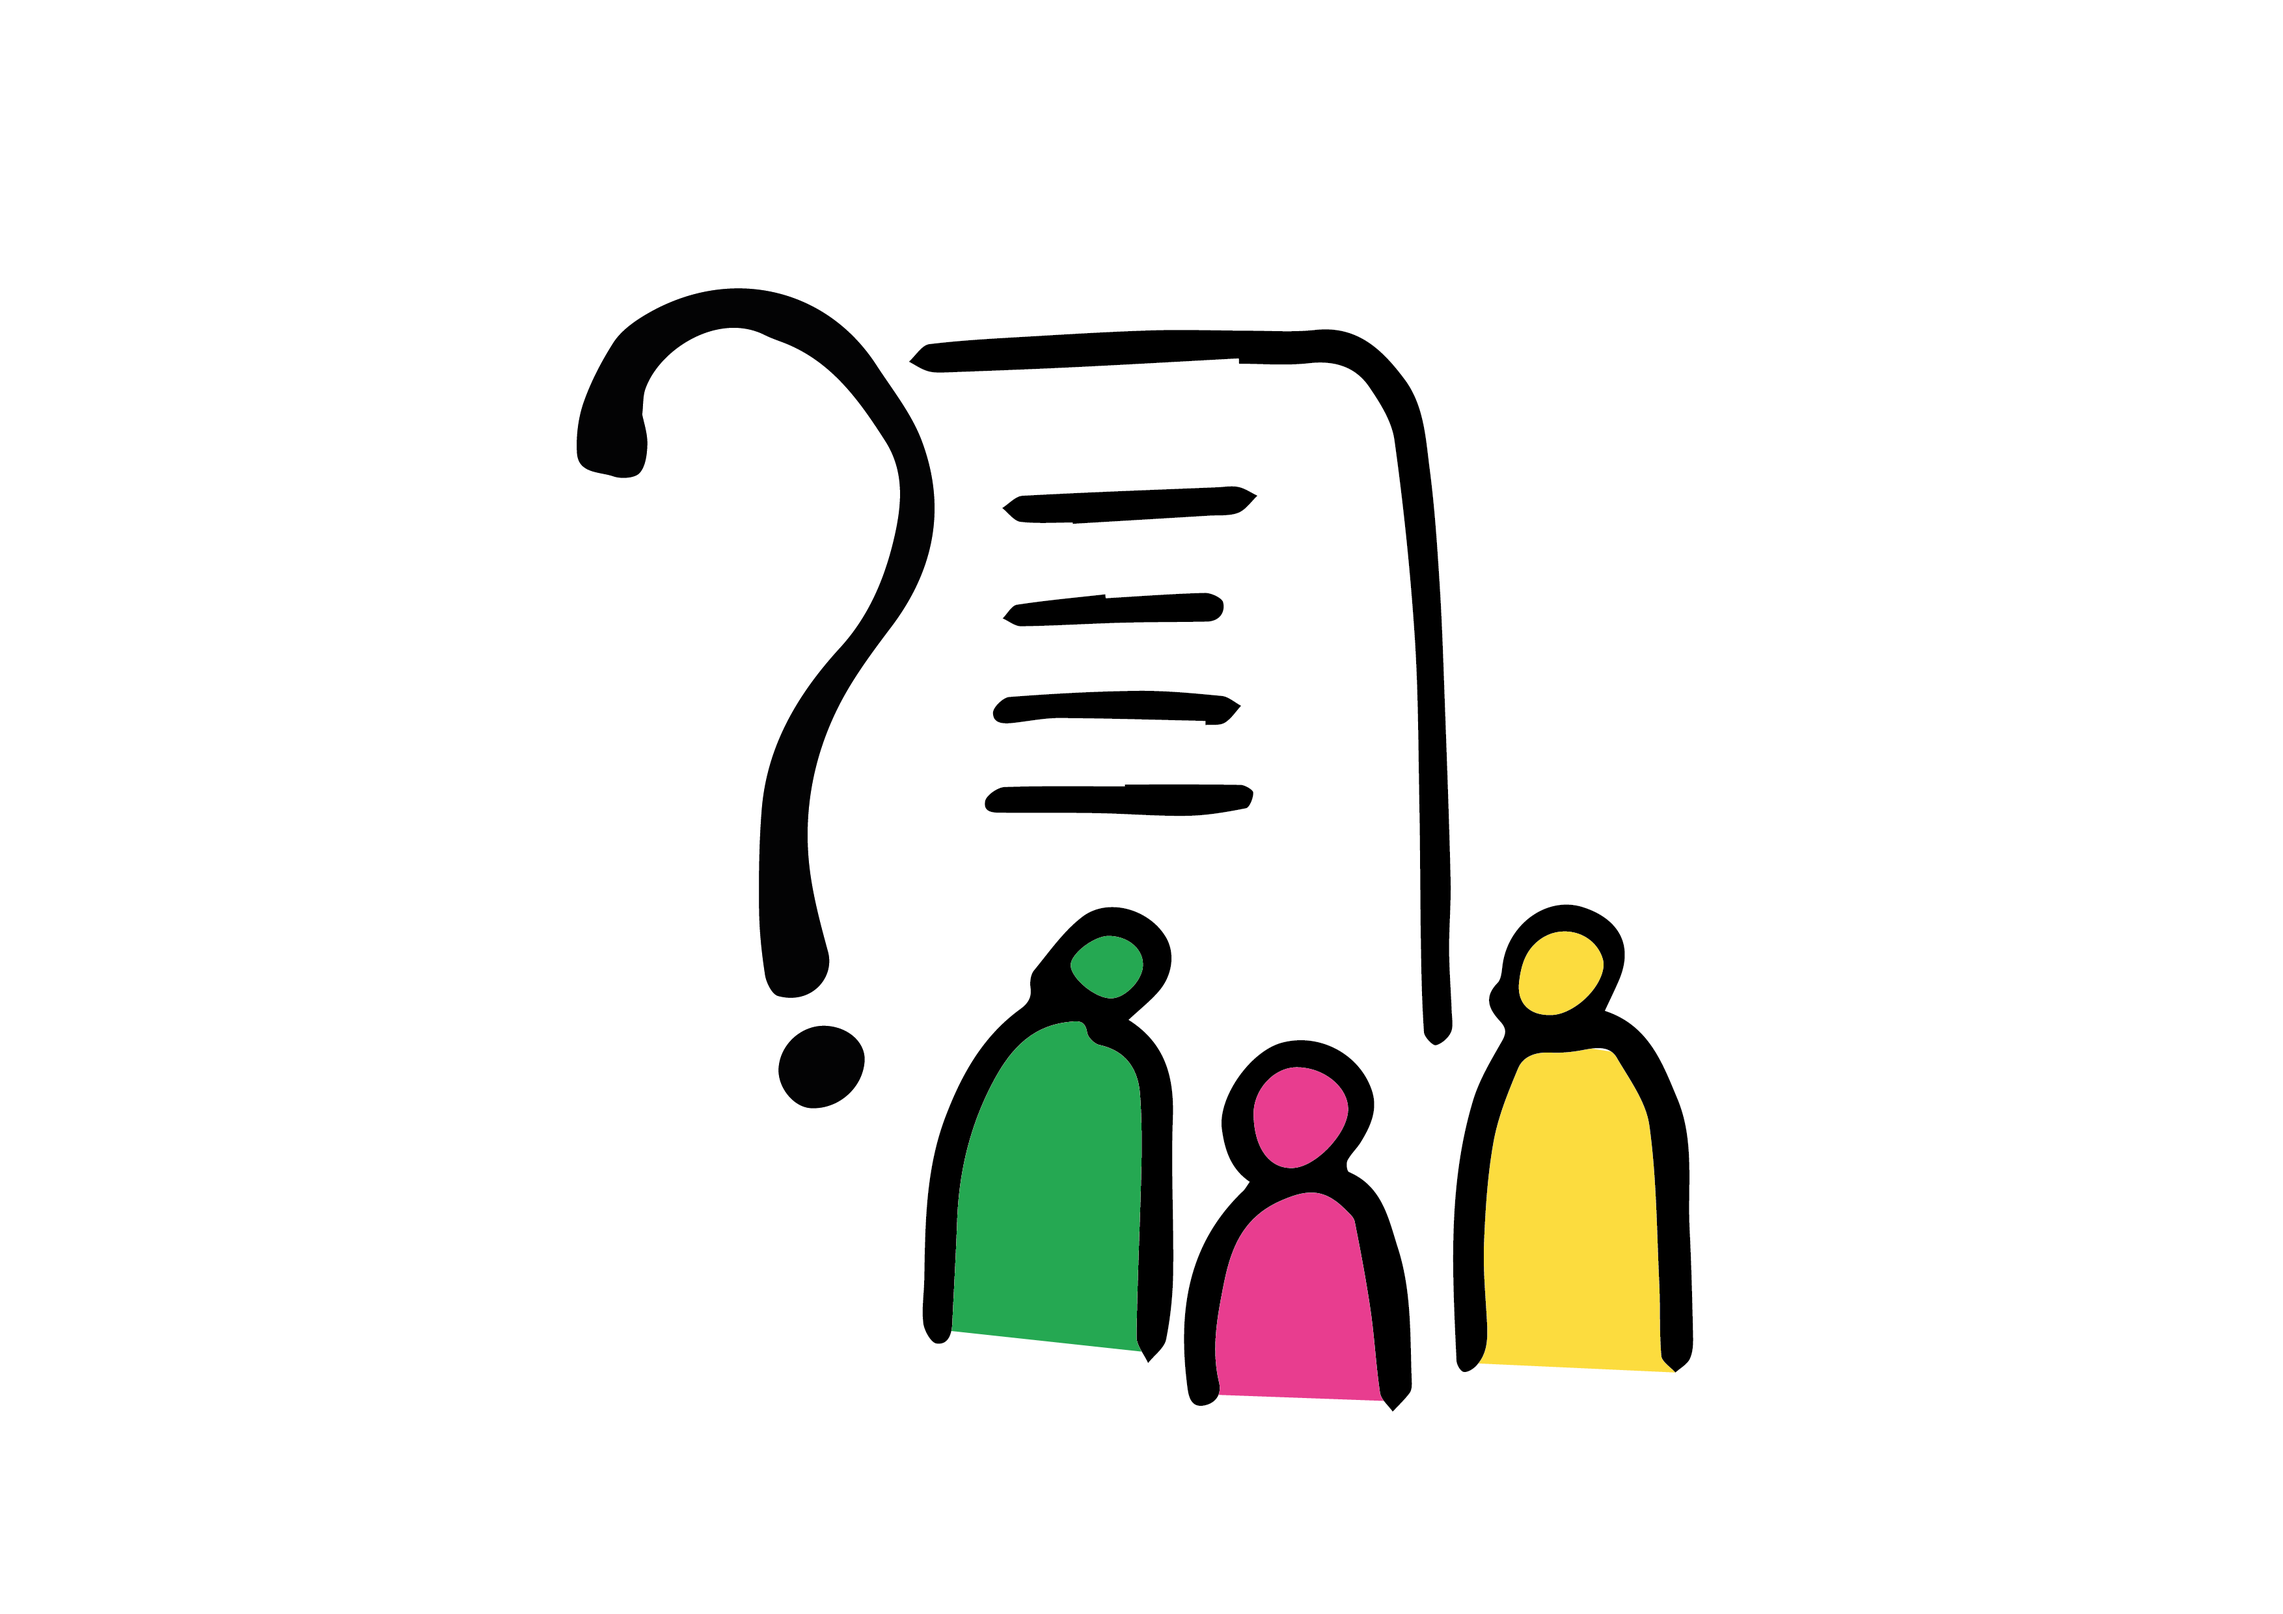
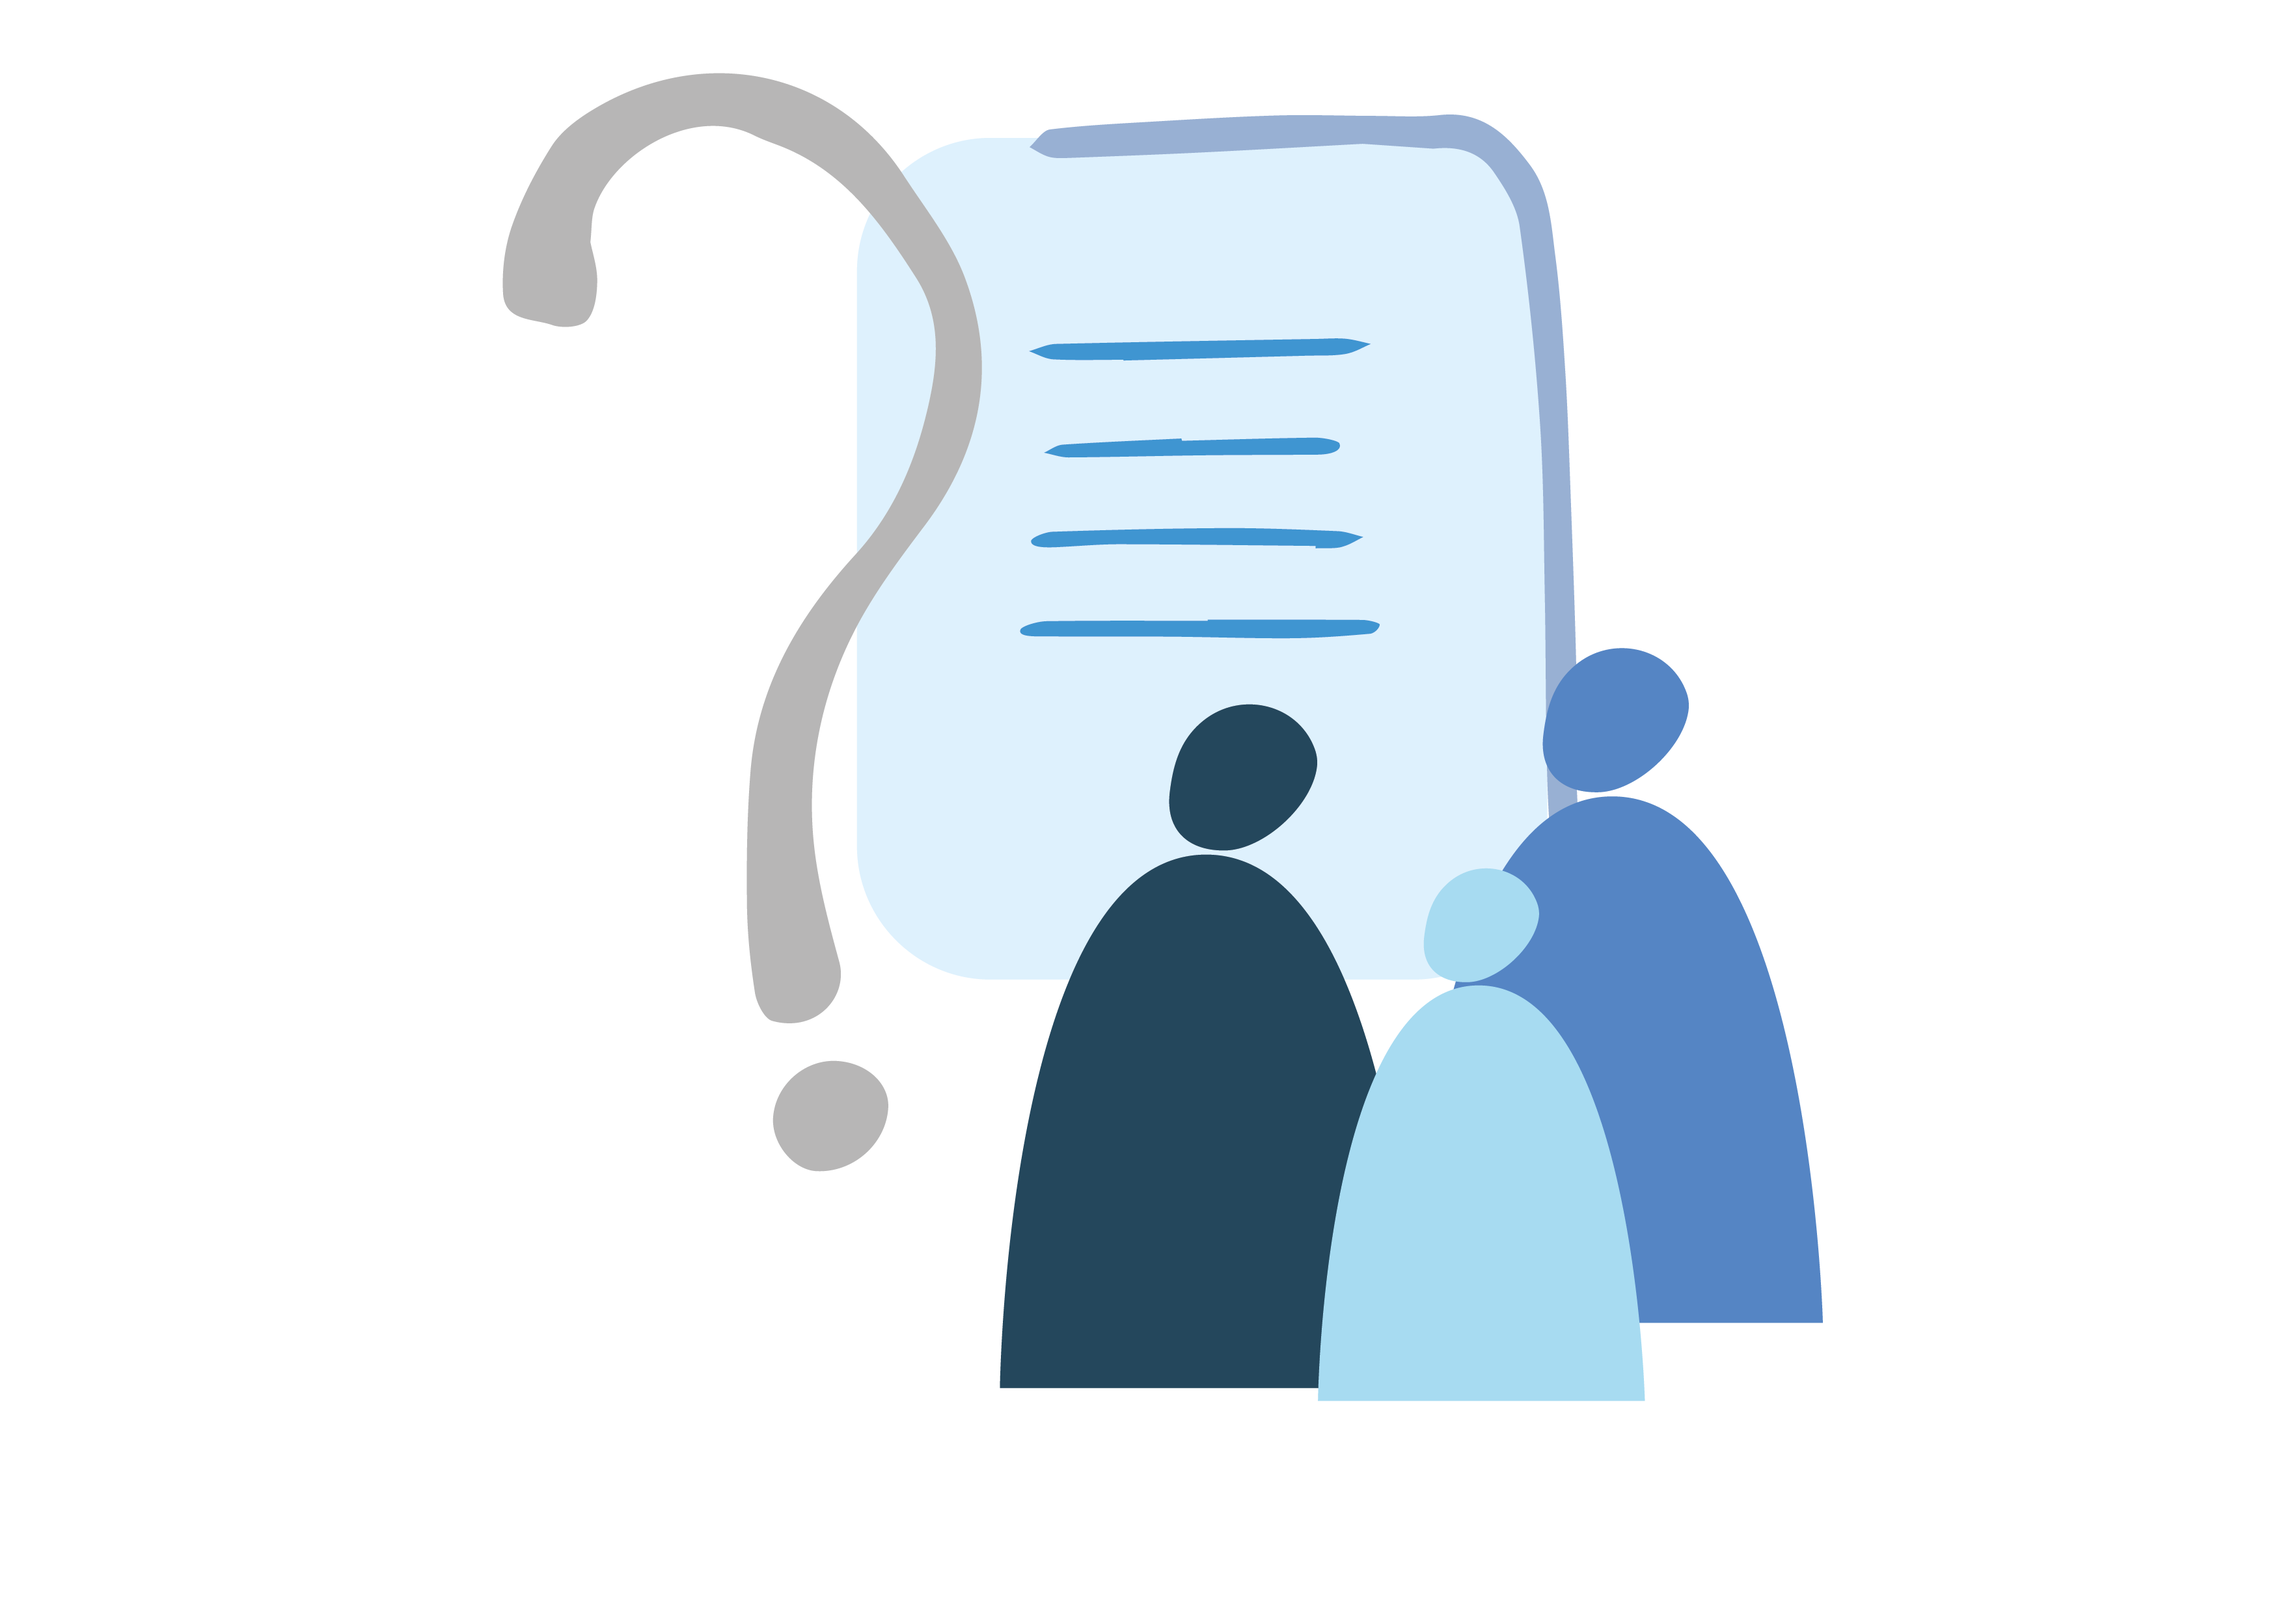
nettoyage repo + ajout picto page

Changed region(s): [[0.2175, 0.031, 0.8079, 0.869]]

diff --git a/css/main.scss b/css/main.scss
@@ -3,6 +3,16 @@
 ---
 
 @import "variables";
+@mixin picto($url) {
+		display: inline-block;
+		width: 200px;
+		height: 200px;
+		margin-left: -200px;
+		position: absolute;
+		content: "";
+		background:  url($url) no-repeat left 60%;
+		background-size: 100%;
+}
 
 #wrapper {
 	min-height: 100%;
@@ -15,15 +25,18 @@
 	padding-bottom: 10rem;
 	main {
 		&#bonnes-pratiques {
-			.container::before {
-				display: inline-block;
-				width: 200px;
-				height: 200px;
-				margin-left: -200px;
-				position: absolute;
-				content: "";
-				background:  url(/img/illu-comment-faire.png) no-repeat left 60%;
-				background-size: 100%;
+		& >	.container::before {
+                @include picto("/img/illu-comment-faire.png");
+			}
+		}
+		&#pourquoi-outils {
+		& >	.container::before {
+                @include picto("/img/illu-pourquoi-outils.png");
+			}
+		}
+		&#comment-utiliser {
+		& >	.container::before {
+                @include picto("/img/illu-comment-utiliser.png");
 			}
 		}
 

diff --git a/css/usage.scss b/css/usage.scss
@@ -33,6 +33,3 @@
   margin-bottom: 2em;
 }
 
-.content{
-  margin-bottom: 3em;
-}

diff --git a/comment-utiliser.md b/comment-utiliser.md
@@ -1,5 +1,7 @@
 ---
 layout: pages
+title: Comment utiliser ces outils ?
+nom: comment-utiliser
 ---
 
 Comment utiliser un outil ?

diff --git a/apropos.md b/apropos.md
@@ -1,5 +1,7 @@
 ---
 layout: pages
+title: pourquoi ces outils ?
+nom: pourquoi-outils
 ---
 
 Pourquoi ces outils ?
